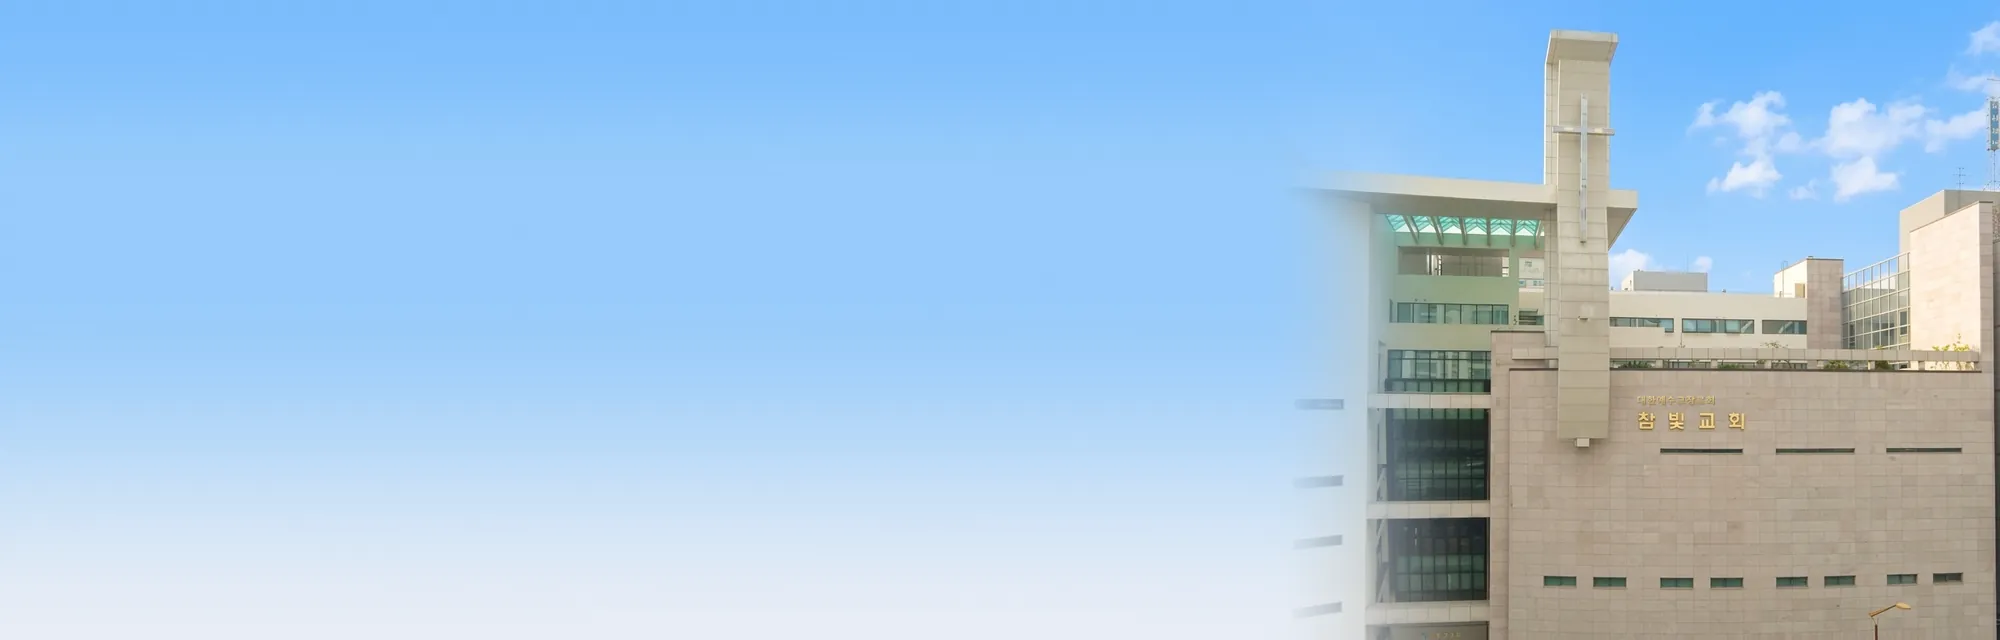
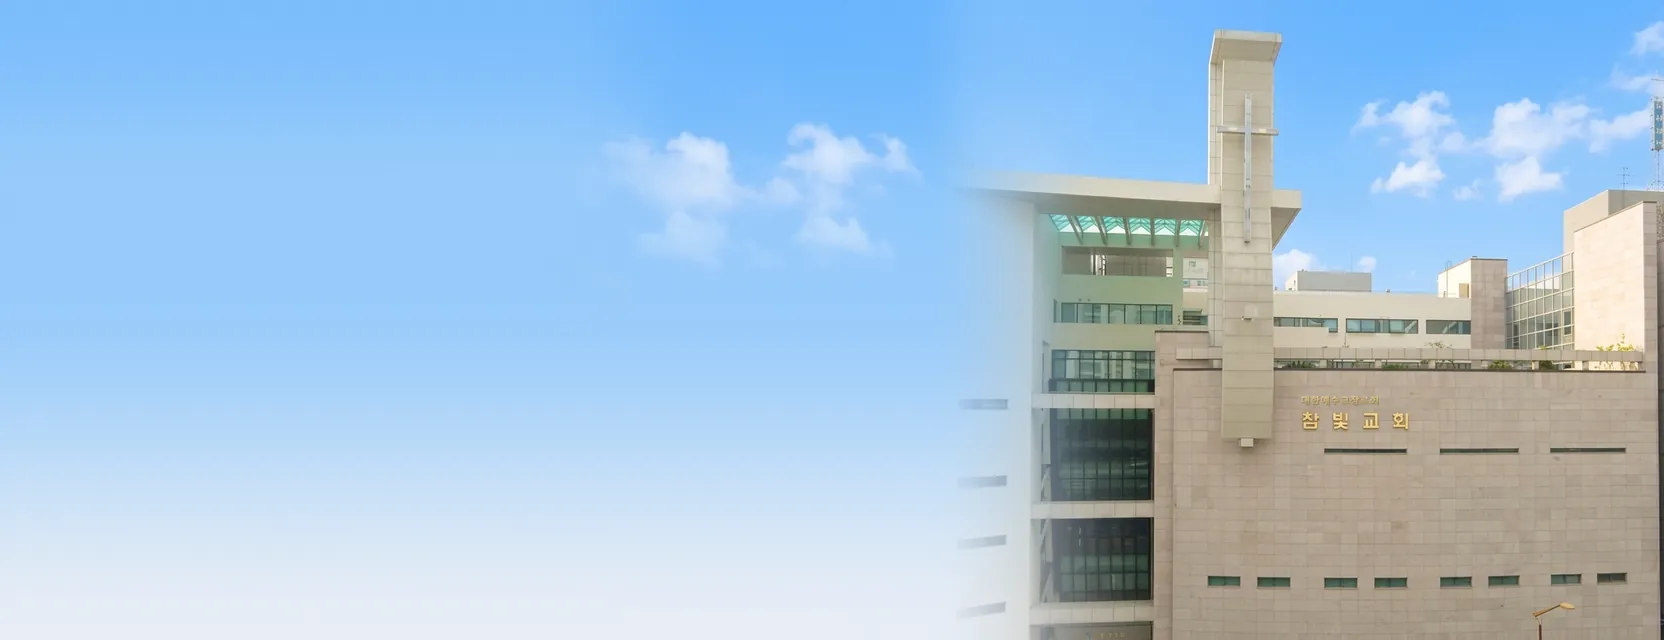
오시는길 다시개선

Changed region(s): [[0.5625, 0.0312, 1.0, 1.0], [0.375, 0.1875, 0.5625, 0.4062]]

diff --git a/frontend/src/pages/Visit/Visit.css b/frontend/src/pages/Visit/Visit.css
@@ -58,7 +58,7 @@
 }
 
 /* 사진 무대 — 실제 예배당 사진(라이트 낮 / 다크 밤, Visit.tsx 가 고른다).
-   자산은 2000x640 와이드, 오른쪽 위 기준으로 잘라 교회는 늘 오른쪽에 온전히 남고
+   자산은 1664x640(2.6:1) 와이드, 오른쪽 위 기준으로 잘라 교회는 늘 오른쪽에 온전히 남고
    왼쪽 하늘 여백이 글자 자리가 된다. 사진이 없으면 시간대 하늘 토큰으로 대신한다 */
 .visit-hero-photo {
   position: relative;
@@ -1137,13 +1137,22 @@
   }
 
   .visit-hero-photo {
-    /* 3.5:1 — 2000x640 자산이 위 기준으로 잘려도 십자가 탑부터 간판까지 남는 높이 */
-    min-height: 340px;
-    padding: 28px 34px 32px;
+    /* 자산(1664x640, 2.6:1) 비율 그대로 — 건물이 십자가 탑부터 입구까지 잘리지 않고 온전히 보인다.
+       콘텐츠 폭 1200px 에서 약 460px. 좁은 lg 에서도 비율이 유지돼 오른쪽 교회는 늘 온전하다 */
+    min-height: 0;
+    aspect-ratio: 1664 / 640;
+    padding: 32px 40px 36px;
+  }
+
+  /* 넓어진 하늘 여백에 맞춰 타이포도 한 단계 — 여백이 '빈 곳'이 아니라 제목의 호흡으로 읽히게 */
+  .visit-hero-body {
+    gap: 10px;
+    max-width: 34rem;
   }
 
   .visit-hero-title {
-    font-size: 28px;
+    font-size: 34px;
+    line-height: 1.2;
   }
 
   .visit-route {
@@ -1163,7 +1172,7 @@
   }
 
   .visit-hero-subtitle {
-    font-size: 14px;
+    font-size: 15px;
   }
 
   /* ── 지도 — 레거시처럼 큼직하게 한 장 ── */

diff --git a/frontend/src/pages/Visit/Visit.tsx b/frontend/src/pages/Visit/Visit.tsx
@@ -32,7 +32,7 @@ const moodOfHour = (h: number): 'dawn' | 'day' | 'dusk' | 'night' => {
  * 그래서 지도 카드가 맨 위에 오고 교통·주차 안내는 접어 두었다.
  */
 /** 히어로 배경 — public/images/visit/. 실제 예배당 사진을 라이트=낮, 다크=밤으로 나눠 쓴다.
- *  (두 장 모두 왼쪽 하늘 여백 + 오른쪽 교회 구도로 가공된 2000x640 와이드 자산.
+ *  (두 장 모두 왼쪽 하늘 여백 + 오른쪽 교회 구도로 가공된 1664x640 와이드 자산.
  *   이전 일러스트 배경은 _backup/church-hero.webp 에 보관) 비우면 /about 사진을 쓴다 */
 const VISIT_HERO_IMAGES = {
   light: '/images/visit/church-day.webp',
